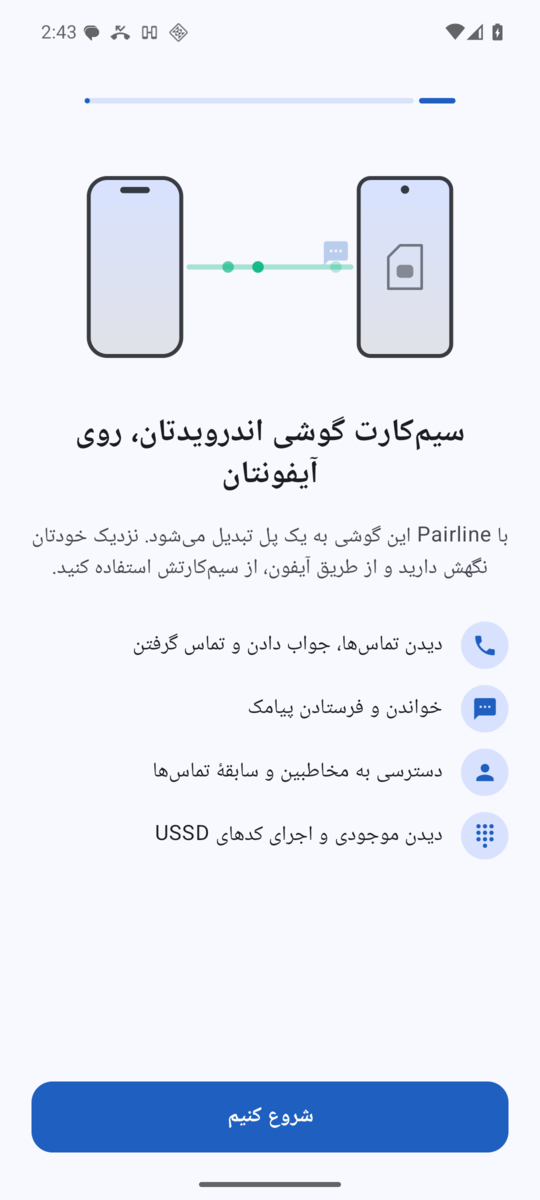
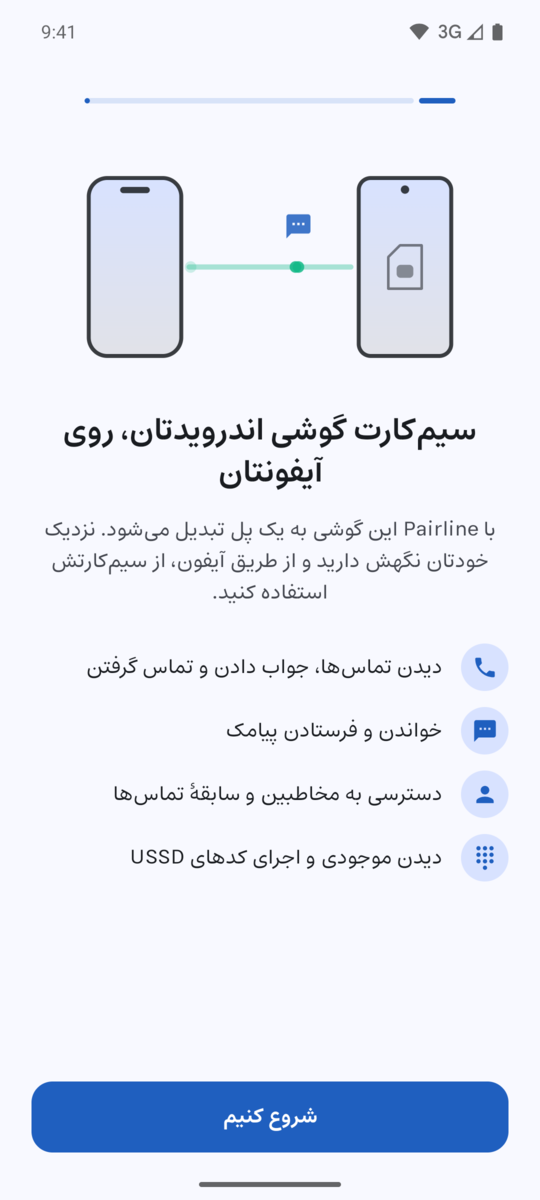
D-032 Estedad for Persian; AGENTS.md font rule; Persian screenshots retaken in Estedad

diff --git a/docs/DECISIONS.md b/docs/DECISIONS.md
@@ -334,3 +334,31 @@ several makers still need testing.
   recording or appear in the recent-apps preview; debug builds allow screenshots for docs.
 - **Maker tips only open screens:** the Xiaomi, Oppo/Realme/OnePlus, Vivo and Huawei/Honor settings screens are opened
   by component name when they exist, otherwise App info. Pairline never changes those settings (AGENTS.md rule 5).
+
+### D-032 — Persian text uses the Estedad typeface (2026-11-24)
+
+The maintainer asked for Persian to be set in **Estedad** ([aminabedi68/Estedad](https://github.com/aminabedi68/Estedad),
[1 lines of base64/hex data omitted]
+apps and on the website. English and Arabic keep their current fonts (system font in the apps, Vazirmatn for Arabic on
+the website).
+
+| | Files | License |
+|-|-------|---------|
+| iOS (app and widget) | `ios/Shared/Fonts/Estedad-{Regular,Medium,SemiBold,Bold}.ttf`, listed under `UIAppFonts` | SIL OFL 1.1 (`Estedad-OFL.txt`, bundled) |
+| Android | `android/app/src/main/res/font/estedad_{regular,medium,semibold,bold}.ttf` | SIL OFL 1.1 (`assets/licenses/Estedad-OFL.txt`, bundled) |
+
+- **A font, not code:** static font files with no code, no network access and no build tooling; D-024's "Apple frameworks
+  only" still holds for code. Each file also carries its copyright and OFL notice in its name table. The iPhone app's
+  About screen credits it.
+- **iOS:** `Shared/AppFont.swift` shadows SwiftUI's `Font.largeTitle` … `Font.caption2` inside the module, so every
+  existing `.font(.headline)` call picks Estedad in Persian (sized per text style and scaling with Dynamic Type) and
+  returns exactly `Font.system(style)` otherwise. `Font.rounded(_:weight:)` replaces the rounded-design system titles.
+  `AppFontAppearance` covers the UIKit-drawn bars (navigation titles, tab labels, bar buttons, segmented pickers).
+  Alerts and system menus keep the system font. The language is read once at launch (iOS relaunches the app when its
+  language changes).
+- **Android:** `PairlineTheme` swaps every Material 3 text style to the Estedad family when the app's locale is `fa`.
+- **Website** (`pairline-web`): the variable `estedad-wght.woff2`, limited by `unicode-range` to Arabic-script
+  characters, so Latin text stays Inter.
+- **Four static weights** (Regular, Medium, SemiBold, Bold; about 160 KB each) instead of the variable TTF, because SwiftUI's
+  `.weight()` and Compose's `FontWeight` both pick between static faces reliably. Lighter and heavier weights map to the
+  nearest bundled one.

diff --git a/AGENTS.md b/AGENTS.md
@@ -161,6 +161,9 @@ Release APKs are built only by GitHub Actions from an `android-v*` tag: `docs/RE
 - Both apps implement `docs/PROTOCOL.md`; shared test vectors in `protocol/` must pass on both.
 - User-visible strings in English, Persian and Arabic from the start (D-019). Persian and Arabic are
   right-to-left; check every screen mirrored, with phone numbers and codes kept left-to-right.
+- Persian text uses the bundled Estedad typeface (D-032). On iOS use text styles (`.font(.headline)`) or
+  `.font(.rounded(_:weight:))`, not `.system(...)`, for anything that shows words; on Android use
+  `MaterialTheme.typography`. Both switch to Estedad in Persian automatically.
 - Small, reviewable commits. Never commit secrets, signing keys, keystores, `.env` files or
   provisioning profiles.
 - **Commit and push as you go.** After each finished, building piece of work, commit it and push to
